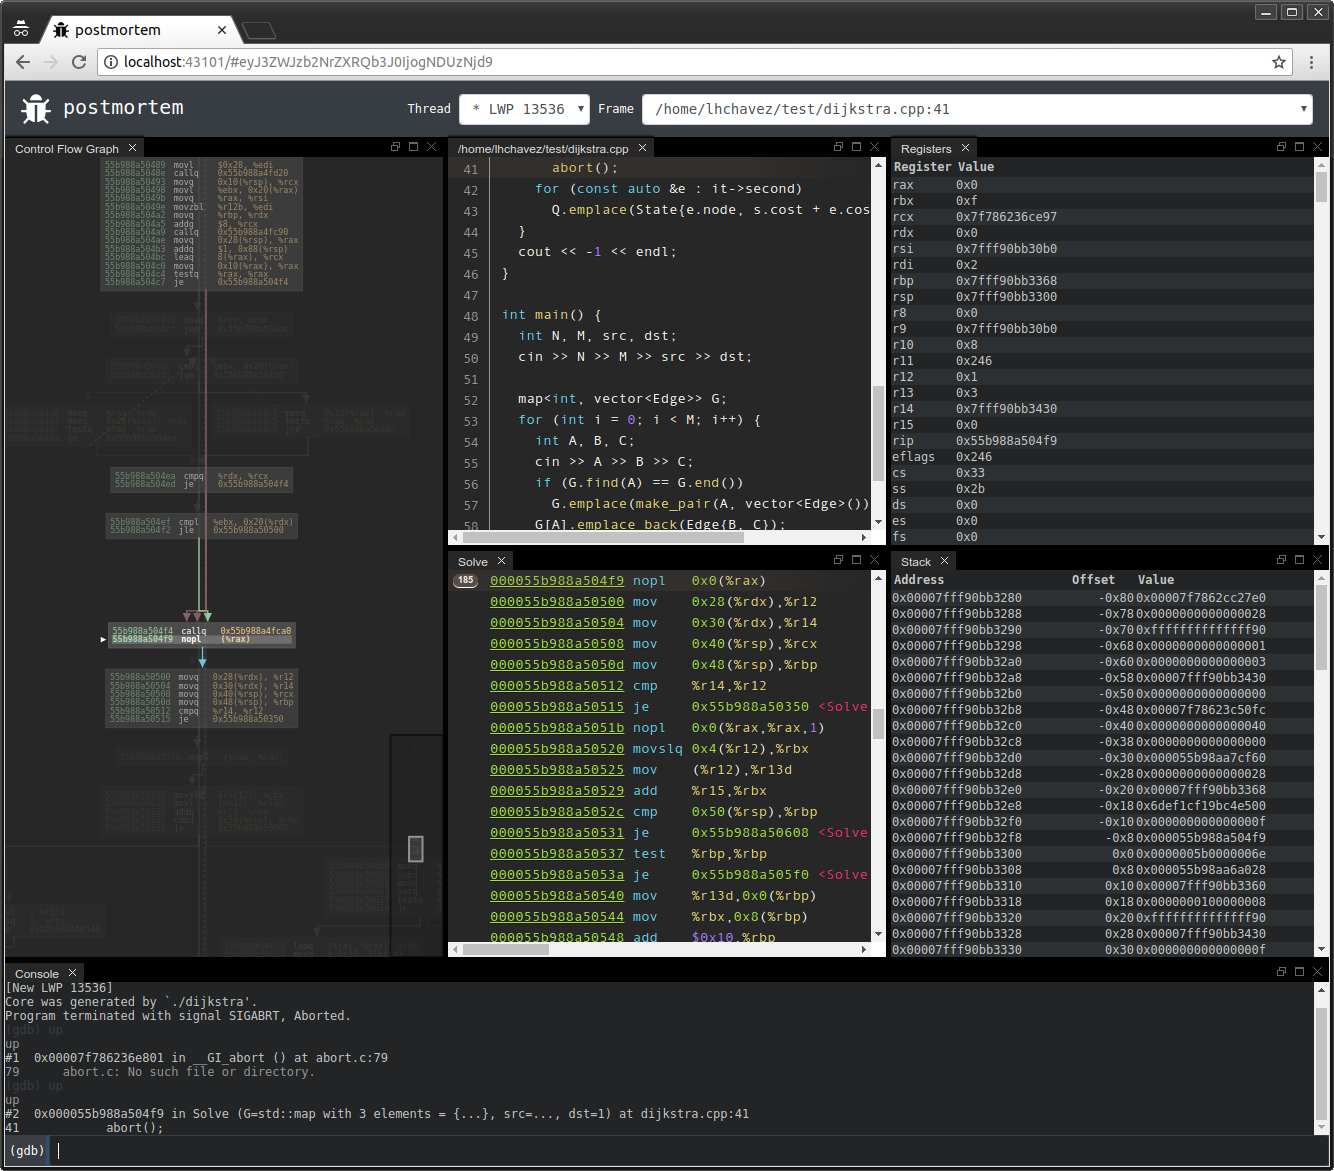
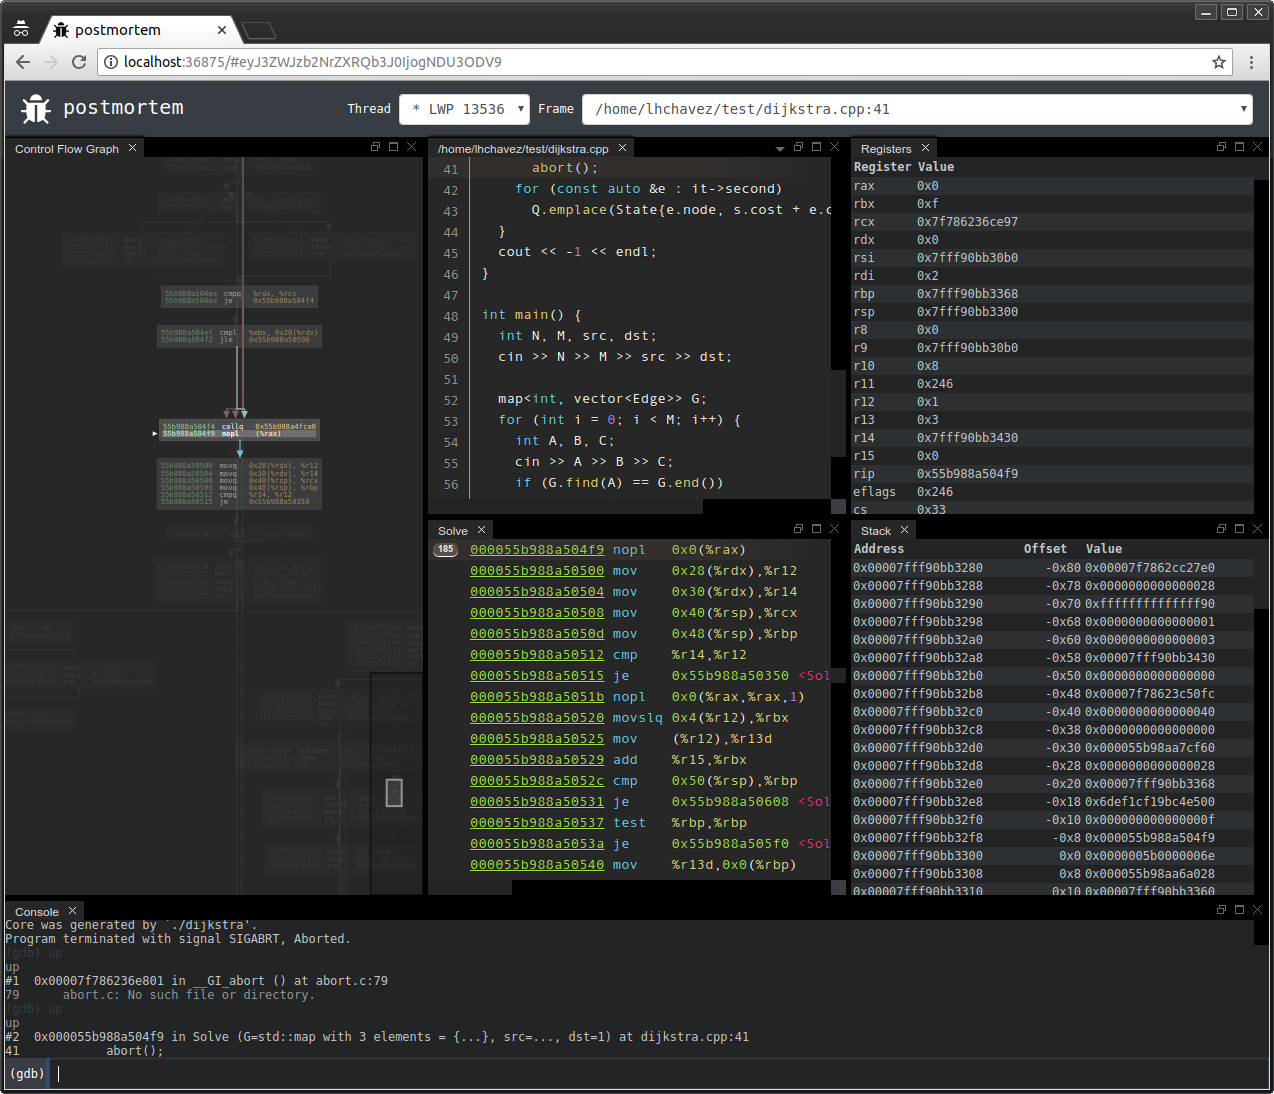
More syling

Changed region(s): [[0.0, 0.0, 1.0, 1.0], [0.0612, 0.4973, 0.2449, 0.6216], [0.3061, 0.7148, 0.3367, 0.7459]]

diff --git a/style.css b/style.css
@@ -1,10 +1,27 @@
 :root {
 	--background-color: #1d1f21;
+	--mid-background-color: #282c30;
+	--light-background-color: #373b41;
 	--foreground-color: #c5c8c6;
 	--border-color: #2d3c46;
 	--selection-color: #de935f;
 
 	--font: 9pt "Luculent Regular", monospace;
+
+	scrollbar-track-color: #000;
+	scrollbar-face-color: var(--background-color);
+}
+::-webkit-scrollbar {
+	background: #000;
+}
+::-webkit-scrollbar-corner {
+	background: var(--light-background-color);
+}
+::-webkit-scrollbar-thumb {
+	background: var(--background-color);
+}
+::-webkit-scrollbar-thumb:hover {
+	background: var(--mid-background-color);
 }
 
 /* Navbar */
@@ -103,18 +120,18 @@ code.language-assembly span.source-address {
 
 .gdb-console-container {
 	flex: 1;
-	background: #1d1f21;
+	background: var(--background-color);
 	overflow-y: auto;
 }
 .gdb-console-input {
-	background: #373b41;
+	background: var(--light-background-color);
 	font: var(--font);
 }
 .gdb-console-input input, .gdb-console-input input:focus {
 	flex-grow: 1;
-	background: #1d1f21;
+	background: var(--background-color);
 	color: #ffffff;
-	border-color: #373b41;
+	border-color: var(--light-background-color);
 }
 .gdb-console {
 	white-space: pre-wrap;
@@ -130,13 +147,13 @@ code.language-assembly span.source-address {
 	color: #cc6666;
 }
 .gdb-console .prompt {
-	color: #373b41;
+	color: var(--light-background-color);
 }
 
 .registers, .stack {
 	font: var(--font);
 	overflow-y: auto;
-	background: #1d1f21;
+	background: var(--background-color);
 	color: #c5c8c6;
 }
 .registers tbody tr:nth-child(odd), .stack tbody tr:nth-child(odd) {
@@ -146,8 +163,8 @@ code.language-assembly span.source-address {
 	padding: 3px;
 }
 .registers td, .stack td {
-	overflow: none;
 	text-overflow: ellipsis;
+	padding: 2px;
 }
 
 .source-editor, .assembly-editor {

diff --git a/index.html b/index.html
@@ -5,6 +5,7 @@
 	<meta http-equiv="X-UA-Compatible" content="IE=edge">
 	<meta http-equiv="Content-Type" content="text/html;charset=utf-8">
 	<meta name="viewport" content="width=device-width, initial-scale=1, shrink-to-fit=no">
+	<meta name="theme-color" content="#1d1f21">
 
 	<title>postmortem</title>
 
